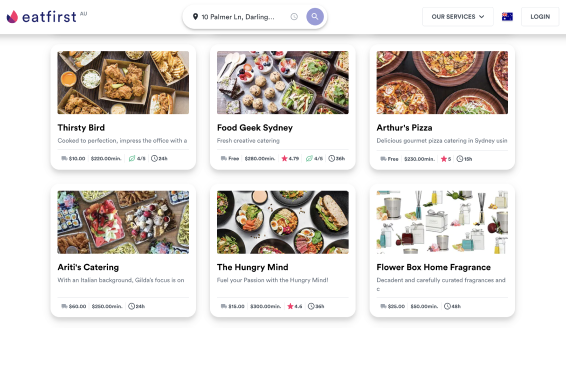
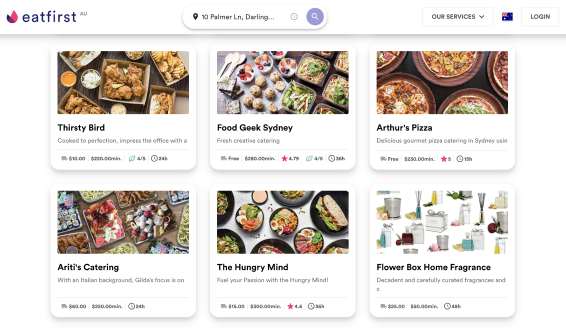
fix image wrapper size

diff --git a/components/WorkDetails/index.tsx b/components/WorkDetails/index.tsx
@@ -13,6 +13,10 @@ type WorkDetailsProps = {
   header: { title: string; detail: String };
   images: String[];
   description: { title: string; items: String[] };
+  imageSizes: {
+    width: number;
+    height: number;
+  };
 };
 
 export const WorkDetails: FC<WorkDetailsProps> = ({
@@ -20,6 +24,7 @@ export const WorkDetails: FC<WorkDetailsProps> = ({
   header,
   images,
   description,
+  imageSizes,
 }) => {
   return (
     <Container>
@@ -35,7 +40,10 @@ export const WorkDetails: FC<WorkDetailsProps> = ({
         />
         <Card.Body>
           <br />
-          <div className={styles.wrapper}>
+          <div
+            className={styles.wrapper}
+            style={{ "--wrapper-max-height": `${imageSizes.height}px` }}
+          >
             {images.map((imagePath, index) => {
               return (
                 <>
@@ -43,8 +51,9 @@ export const WorkDetails: FC<WorkDetailsProps> = ({
                     key={index}
                     src={`/${companyName}_${imagePath}.png`}
                     alt="added features to the app"
-                    width={566}
-                    height={376}
+                    width={imageSizes.width}
+                    height={imageSizes.height}
+                    layout="responsive"
                   />
                   <br />
                 </>

diff --git a/pages/eatfirst/index.tsx b/pages/eatfirst/index.tsx
@@ -19,6 +19,7 @@ const eatfirst: NextPage = () => (
     header={{ title: "Junior Front-end Developer", detail: "EatFirst" }}
     images={imagePaths}
     description={{ title: descriptionTitle, items: descriptionItems }}
+    imageSizes={{ width: 566, height: 328 }}
   />
 );
 

diff --git a/pages/propps/index.tsx b/pages/propps/index.tsx
@@ -25,6 +25,7 @@ const propps: NextPage = () => (
     header={{ title: "Junior Front-end Developer", detail: "Propps" }}
     images={imagePaths}
     description={{ title: descriptionTitle, items: descriptionItems }}
+    imageSizes={{ width: 566, height: 376 }}
   />
 );
 

diff --git a/styles/globals.css b/styles/globals.css
@@ -16,7 +16,7 @@ html {
   --primary-color: #f6a400;
   --black-color: #000;
   --grey-color: rgba(255, 255, 255, 0.5);
-  --screen-xs: 344px;
+  --screen-xs: 375px;
   --screen-sm: 575px;
 }
 
